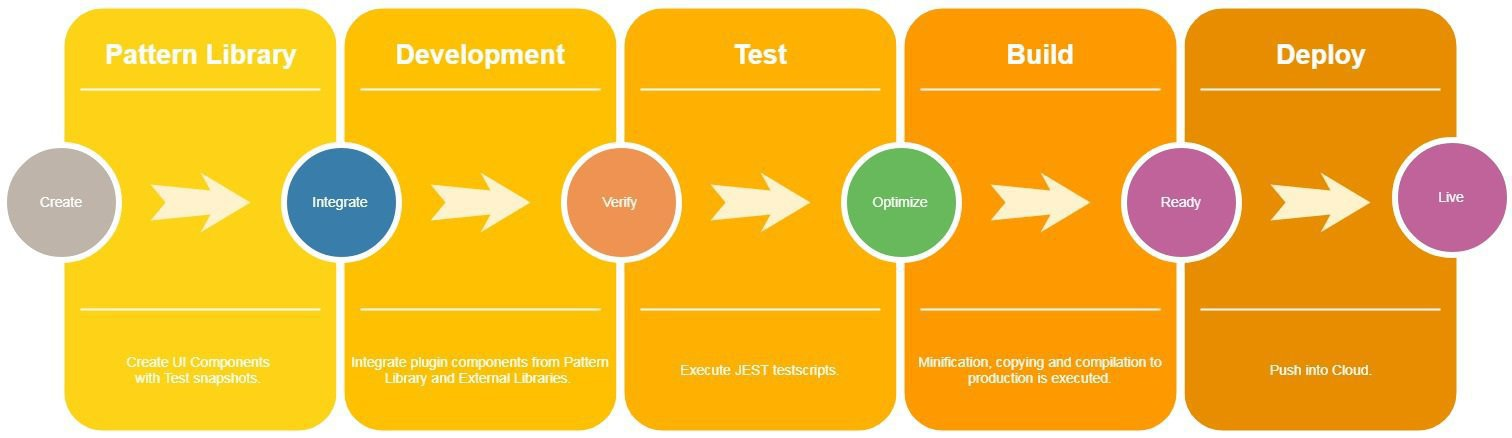
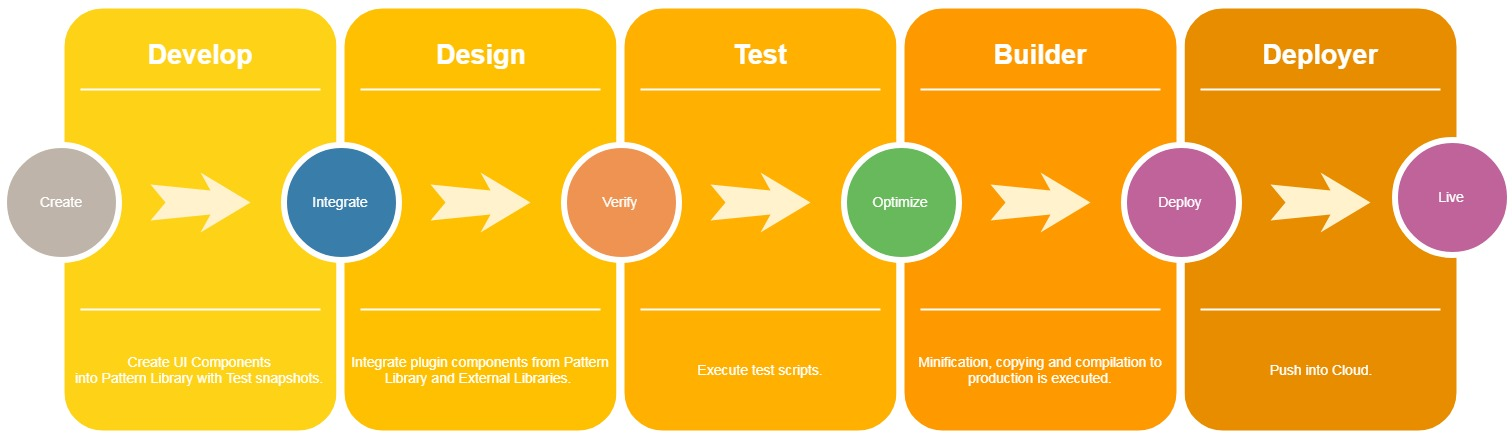
Added building pattern of development

diff --git a/src/tsx/util/Locale.tsx b/src/tsx/util/Locale.tsx
@@ -167,16 +167,16 @@ export class DevelopLocale extends AbstractLocalev2 {
       my: 'Sejarah'
     },
     'implementation.create': {
-      en: 'We used ReactJS library to created a maintainable pattern library, a small website to maintain a list of modular web components. This enables us to build, test and verify our small modular web components.',
-      my: 'Akan sebab kod dibina menggunakan ReactJs, saya membina Pattern Library untuk memodularkan web komponent. Ini membolehkan pembinaan dan uji menguji component baru mahupun lama.'
+      en: 'With  just brief idea of design we wanted, we then start to create small modular web components into out pattern library. Components like a Header, a Timeline box.',
+      my: 'Dengan idea yang ringkas, kami membina komponent kecil ke dalam Pattern Library. Komponent seperti Header, Footer, Timeline.'
     },
     'implementation.develop': {
-      en: 'With the list of components within the pattern library, the components are then reused to build the main website; the website for Walcron.',
-      my: 'Laman Walcron dibina mengunakan komponent yang dibina di dalam Pattern Library.'
+      en: 'Pattern library components are then used to build the main website; the website for Walcron. If modification or new components does not fit the design, it enters the develop phase again. In this stage: colors, arrangement and display text plays an important role.',
+      my: 'Laman Walcron dibina mengunakan komponent yang dibina di dalam Pattern library. Focus utama di sini, adalah warna dan display.'
     },
     'implementation.test.build': {
-      en: 'We uses Gradle to then tests and compile an optimizes the developed website into a production website ready.',
-      my: 'Menggunakan Gradle, alat ini menguji dan mengcompile kod yang optimum bagi digunakan untuk production.'
+      en: 'We uses Gradle to then tests and compile an optimizes the developed website into a production website ready. Snapshots are captured as well to ensure the correctness of the layout for the next build.',
+      my: 'Menggunakan Gradle, alat ini menguji dan mengcompile kod yang optimum bagi digunakan untuk produksi.'
     },
     'implementation.deploy': {
       en: 'The final compiled version with Gradle is then push into a Cloud service, followed by a CDN cache clearing.',

diff --git a/src/tsx/components/Develop.tsx b/src/tsx/components/Develop.tsx
@@ -128,28 +128,28 @@ export class Develop extends React.Component<{}, {}> {
             <Card className={styles['card']} raised>
               <CardMedia className={styles['card-image']} aspectRatio="wide" image="/ext/img/develop/workflow.jpg"/>
               <CardTitle
-                title={"Create"}
+                title={"Develop"}
                 subtitle={locale.translate("implementation.create")}
               />
               <CardActions>
                 <Button label={"Codes"} href="https://github.com/yoonghan/nodejsweb/tree/master/src/patternlibrary" target="impl" theme={styles} primary/>
               </CardActions>
               <CardTitle
-                title={"Development"}
+                title={"Design"}
                 subtitle={locale.translate("implementation.develop")}
               />
               <CardActions>
                 <Button label={"Codes"} href="https://github.com/yoonghan/nodejsweb/tree/master/src/" target="impl" theme={styles} primary/>
               </CardActions>
               <CardTitle
-                title={"Test => Build"}
+                title={"Verify and Optimize"}
                 subtitle={locale.translate("implementation.test.build")}
               />
               <CardActions>
                 <Button label={"Codes"} href="https://github.com/yoonghan/selfservicecopier" target="impl" theme={styles} primary/>
               </CardActions>
               <CardTitle
-                title={"Deploy"}
+                title={"Ready and Go Live"}
                 subtitle={locale.translate("implementation.deploy")}
               />
             </Card>
